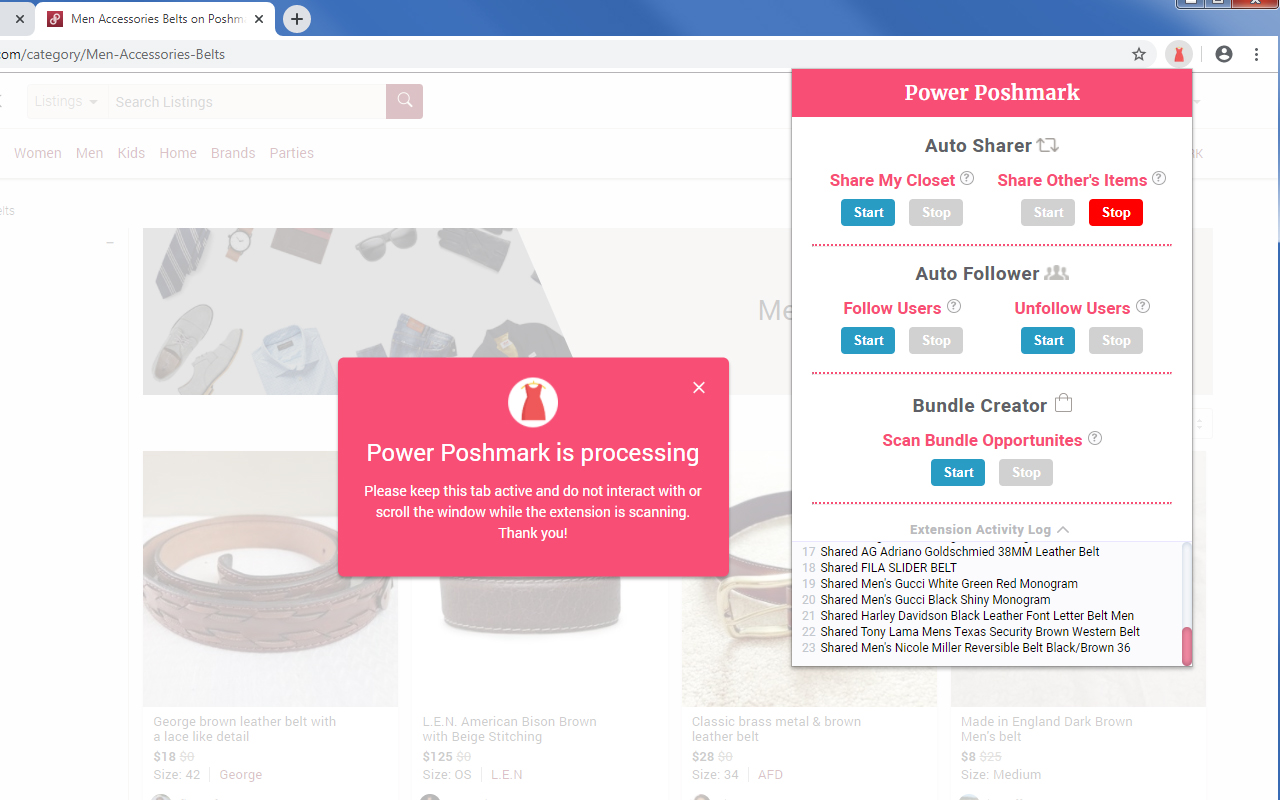
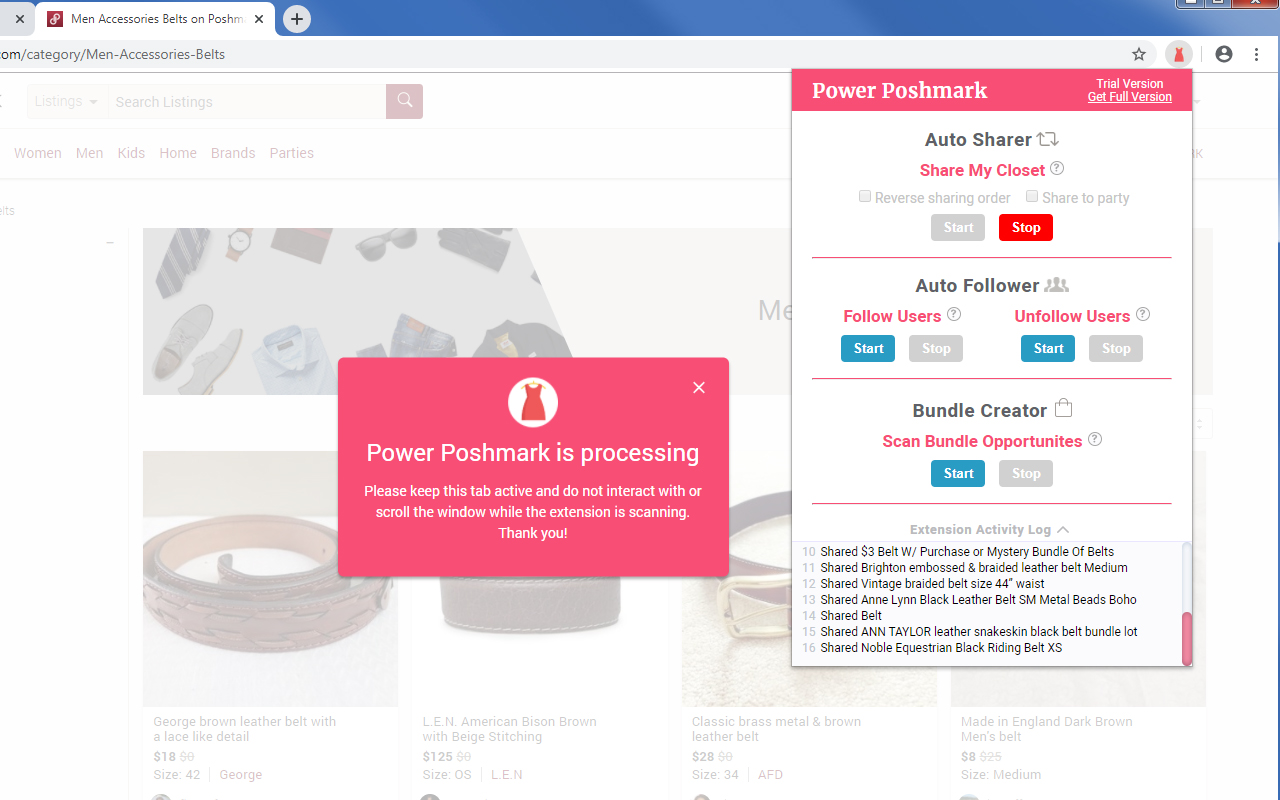
Make status route dynamic

Changed region(s): [[0.625, 0.0938, 0.9375, 0.4688], [0.625, 0.6875, 0.9375, 0.8125], [0.6875, 0.5, 0.875, 0.5938]]

diff --git a/extension/popup.js b/extension/popup.js
@@ -1,5 +1,5 @@
 // Set dev or prod site
-const mode = 'dev';
+const mode = 'prod';
 const site = (mode === 'prod') ? 'http://www.powerposhmark.com' : 'http://localhost:3000';
 
 
@@ -62,7 +62,7 @@ function init() {
       if (res.status !== 'ok') addLog(res.status);
     }
   }
-  xhr.open('GET', 'http://localhost:3000/status', true);
+  xhr.open('GET', `${site}/status`, true);
   xhr.send(null);
 
 
@@ -224,12 +224,12 @@ function init() {
       // Add sharing button listeners
       startSharingBtn.addEventListener('click', e => {
         // Check if on closet page
-        if (!/\/closet\//.test(tabUrl)) {
-          const link = (username) ? `closet/${username}` : 'login';
-          return addLog(`
-            <span class="msg error">Not on right page. Go to your <a target="_blank" href="https://poshmark.com/${link}">closet</a> page first.</span>
-        `);
-        }
+        // if (!/\/closet\//.test(tabUrl)) {
+        //   const link = (username) ? `closet/${username}` : 'login';
+        //   return addLog(`
+        //     <span class="msg error">Not on right page. Go to your <a target="_blank" href="https://poshmark.com/${link}">closet</a> page first.</span>
+        // `);
+        // }
 
         checkLimitReached('share', () => {
           const reverseSharing = reverseSharingEl.checked;

diff --git a/extension/content.js b/extension/content.js
@@ -1,5 +1,7 @@
 if (window.location.hostname === 'localhost' || window.location.hostname.replace('www.', '') === 'powerposhmark.com') {
   if (window.location.pathname === '/account') {
+    console.log('pp account');
+
     const emailInput = document.querySelector('#email-input');
     const subInput = document.querySelector('#sub-input');
 
